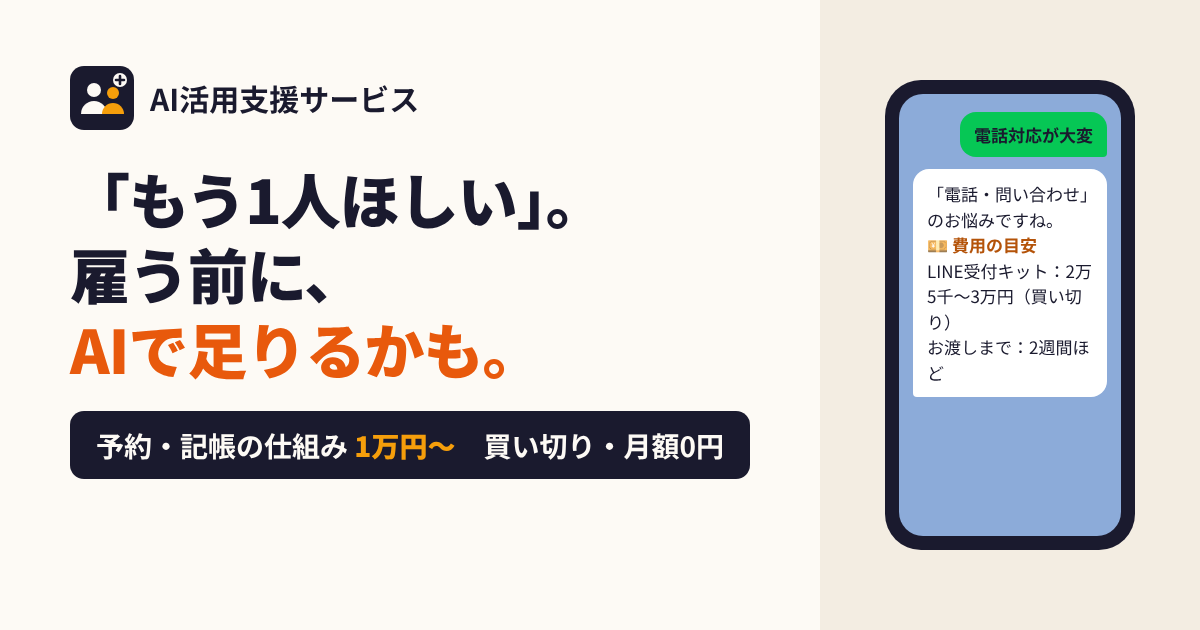
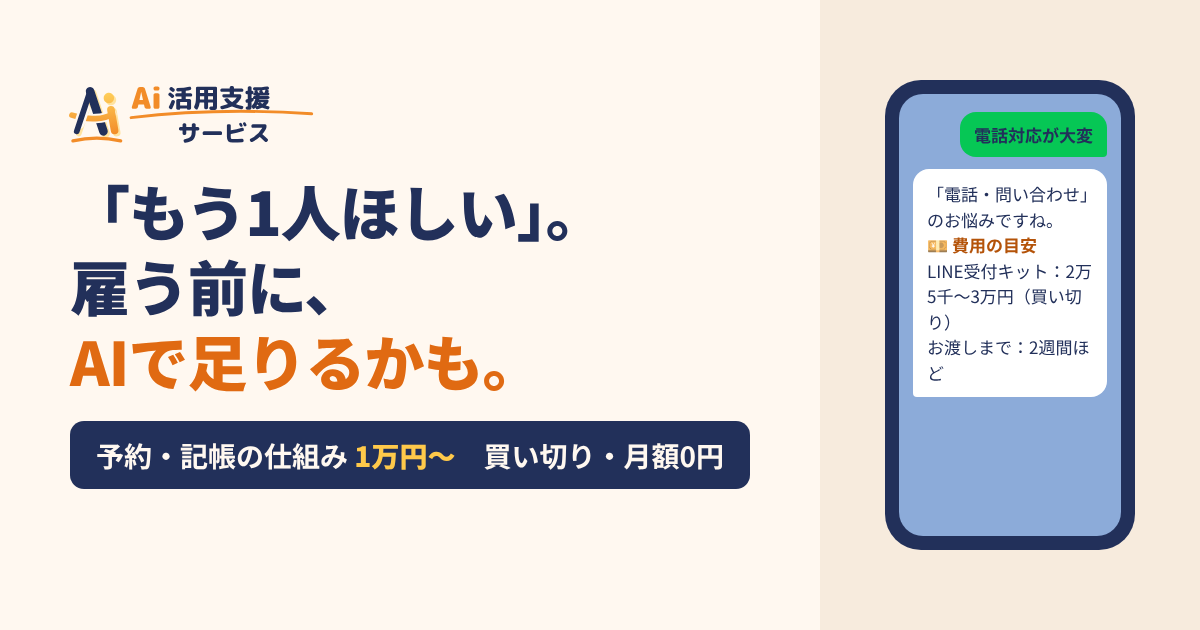
ロゴ刷新（Aをiが抱きしめるマーク）と配色をネイビー×オレンジに変更
Claude-Session: https://claude.ai/code/session_01ESE543p44aGTJ3GTZoKCfU

diff --git a/index.html b/index.html
@@ -33,7 +33,7 @@
 <link rel="icon" type="image/png" sizes="48x48" href="favicon-48.png">
 <link rel="icon" type="image/png" sizes="96x96" href="favicon-96.png">
 <link rel="apple-touch-icon" href="apple-touch-icon.png">
-<meta name="theme-color" content="#1A1A2E">
+<meta name="theme-color" content="#22305A">
 
 <!-- OGP -->
 <meta property="og:type" content="website">
@@ -91,14 +91,14 @@
 @font-face{font-family:'M PLUS Rounded 1c';font-style:normal;font-weight:600 900;font-display:swap;src:url(/AI-Utilization-Support-Service/fonts/mpr-800.woff2) format('woff2');}
 
 :root{
-  --cream:#FDFAF5; --white:#FFFFFF;
-  --ink:#1A1A2E; --ink2:#2D3561; --muted:#565E6B;
-  --border:#E5E0D8; --amber:#F59E0B; --amber-l:#FEF3C7; --amber-d:#B45309;
+  --cream:#FFF8F0; --white:#FFFFFF;
+  --ink:#22305A; --ink2:#33457A; --muted:#565E6B;
+  --border:#E5E0D8; --amber:#F28C28; --amber-l:#FFECD6; --amber-d:#B45309;
   --green:#10B981; --green-l:#D1FAE5;
   --line:#06C755; --line-d:#05A847;
   --accent:#F97316; --accent-l:#FFEDD5;
-  --shadow:0 4px 24px rgba(26,26,46,0.08);
-  --shadow-lg:0 8px 40px rgba(26,26,46,0.13);
+  --shadow:0 4px 24px rgba(34,48,90,0.08);
+  --shadow-lg:0 8px 40px rgba(34,48,90,0.13);
 }
 *{margin:0;padding:0;box-sizing:border-box;}
 html{scroll-behavior:smooth;}
@@ -271,7 +271,7 @@ a{color:inherit;}
 .cta-sec p{font-size:15px;color:rgba(255,255,255,.75);margin-bottom:30px;}
 .cta-sec .cta-main{align-items:center;}
 .cta-sec .cta-note{color:rgba(255,255,255,.7);}
-.cta-sec .cta-note a{color:var(--amber);}
+.cta-sec .cta-note a{color:#FFD15C;}
 
 /* フッター */
 .foot-line{background:var(--white);border-top:1px solid var(--border);padding:22px 40px;display:flex;align-items:center;justify-content:center;gap:20px;flex-wrap:wrap;text-align:center;}
@@ -328,7 +328,7 @@ footer{background:var(--white);border-top:1px solid var(--border);padding:22px 4
   .cta-sec h2{font-size:24px;}
   .foot-line,footer{padding:18px 18px;}
   footer{flex-direction:column;align-items:center;text-align:center;padding-bottom:96px;}
-  .sticky-line{display:flex;position:fixed;left:0;right:0;bottom:0;z-index:200;padding:10px 14px calc(10px + env(safe-area-inset-bottom,0px));background:rgba(255,255,255,.96);border-top:1px solid var(--border);box-shadow:0 -4px 16px rgba(26,26,46,.08);}
+  .sticky-line{display:flex;position:fixed;left:0;right:0;bottom:0;z-index:200;padding:10px 14px calc(10px + env(safe-area-inset-bottom,0px));background:rgba(255,255,255,.96);border-top:1px solid var(--border);box-shadow:0 -4px 16px rgba(34,48,90,.08);}
   .sticky-line .btn-line{width:100%;padding:14px;font-size:15.5px;}
 }
 </style>
@@ -337,7 +337,7 @@ footer{background:var(--white);border-top:1px solid var(--border);padding:22px 4
 <script>document.documentElement.classList.add('js');</script>
 
 <header class="hdr">
-  <a class="hdr-brand" href="./"><svg class="logo-svg" viewBox="0 0 64 64" aria-hidden="true"><rect width="64" height="64" rx="14" fill="#1A1A2E"/><circle cx="24" cy="24" r="7" fill="#FDFAF5"/><path d="M11 48a13 13 0 0 1 26 0z" fill="#FDFAF5"/><circle cx="43" cy="27" r="6" fill="#F59E0B"/><path d="M32 48a11 11 0 0 1 22 0z" fill="#F59E0B"/><circle cx="50" cy="14" r="7" fill="#FDFAF5"/><path d="M50 10v8M46 14h8" stroke="#1A1A2E" stroke-width="2.6" stroke-linecap="round"/></svg><div class="hdr-title">AI活用支援サービス</div></a>
+  <a class="hdr-brand" href="./"><img class="logo-img" src="logo.svg" width="160" height="52" alt="AI活用支援サービス" style="height:44px;width:auto;display:block"></a>
   <nav class="hdr-nav">
     <a class="nav-txt" href="price/">料金</a>
     <a class="nav-txt" href="#works">制作例</a>
@@ -461,7 +461,7 @@ footer{background:var(--white);border-top:1px solid var(--border);padding:22px 4
             <div class="mk-tabs"><div class="mk-tab" style="background:#EC4899;color:#fff;">予約</div><div class="mk-tab" style="background:#fff;color:#9CA3AF;">顧客</div><div class="mk-tab" style="background:#fff;color:#9CA3AF;">売上</div></div>
             <div class="mk-item"><div class="mk-row" style="margin-bottom:1px;"><span style="font-weight:700;">10:00 田中様</span><span class="mk-bdg" style="margin-left:auto;background:#FCE7F3;color:#BE185D;">90分</span></div><div style="color:#9CA3AF;">ジェル / オフ込・¥6,500</div></div>
             <div class="mk-item"><div class="mk-row" style="margin-bottom:1px;"><span style="font-weight:700;">13:30 佐藤様</span><span class="mk-bdg" style="margin-left:auto;background:#FCE7F3;color:#BE185D;">120分</span></div><div style="color:#9CA3AF;">フット / アート・¥8,000</div></div>
-            <div class="mk-item" style="margin-bottom:6px;"><div class="mk-row" style="margin-bottom:1px;"><span style="font-weight:700;">16:00 鈴木様</span><span class="mk-bdg" style="margin-left:auto;background:#FEF3C7;color:#92400E;">新規</span></div><div style="color:#9CA3AF;">ハンド / ワンカラー・¥4,000</div></div>
+            <div class="mk-item" style="margin-bottom:6px;"><div class="mk-row" style="margin-bottom:1px;"><span style="font-weight:700;">16:00 鈴木様</span><span class="mk-bdg" style="margin-left:auto;background:#FFECD6;color:#92400E;">新規</span></div><div style="color:#9CA3AF;">ハンド / ワンカラー・¥4,000</div></div>
             <div class="mk-row" style="margin-bottom:0;gap:5px;"><div class="mk-stat"><div style="color:#9CA3AF;">本日売上</div><div style="font-weight:800;color:#EC4899;font-size:9px;">¥18,500</div></div><div class="mk-stat"><div style="color:#9CA3AF;">来店</div><div style="font-weight:800;color:#EC4899;font-size:9px;">3件</div></div></div>
           </div>
         </div>
@@ -492,11 +492,11 @@ footer{background:var(--white);border-top:1px solid var(--border);padding:22px 4
         <div class="mock">
           <div class="mock-bar"><span class="mock-dot" style="background:#FF5F57"></span><span class="mock-dot" style="background:#FEBC2E"></span><span class="mock-dot" style="background:#28C840"></span></div>
           <div class="mock-screen" style="background:#FFFBEB;">
-            <div class="mk-row"><span class="mk-chip" style="background:#F59E0B;color:#fff;">🚚 配車管理</span><span style="margin-left:auto;color:#6B7280;font-weight:700;">6/15(月)</span></div>
+            <div class="mk-row"><span class="mk-chip" style="background:#F28C28;color:#fff;">🚚 配車管理</span><span style="margin-left:auto;color:#6B7280;font-weight:700;">6/15(月)</span></div>
             <div class="mk-item" style="padding:4px 6px;"><div class="mk-row" style="margin-bottom:1px;"><span style="width:5px;height:5px;border-radius:50%;background:#22C55E;flex-shrink:0;"></span><span style="font-weight:700;">1号車 山田</span><span class="mk-bdg" style="margin-left:auto;background:#DCFCE7;color:#166534;">運行中</span></div><div style="color:#9CA3AF;padding-left:10px;">Aエリア→Bエリア / 9:00発・3件</div></div>
             <div class="mk-item" style="padding:4px 6px;"><div class="mk-row" style="margin-bottom:1px;"><span style="width:5px;height:5px;border-radius:50%;background:#22C55E;flex-shrink:0;"></span><span style="font-weight:700;">2号車 鈴木</span><span class="mk-bdg" style="margin-left:auto;background:#DCFCE7;color:#166534;">運行中</span></div><div style="color:#9CA3AF;padding-left:10px;">Cエリア→Dエリア / 8:30発・2件</div></div>
-            <div class="mk-item" style="padding:4px 6px;"><div class="mk-row" style="margin-bottom:1px;"><span style="width:5px;height:5px;border-radius:50%;background:#FBBF24;flex-shrink:0;"></span><span style="font-weight:700;">3号車 佐々木</span><span class="mk-bdg" style="margin-left:auto;background:#FEF3C7;color:#92400E;">待機</span></div><div style="color:#9CA3AF;padding-left:10px;">次便 13:00 / Eエリア</div></div>
-            <div class="mk-row" style="margin-bottom:0;gap:5px;"><div class="mk-stat"><div style="color:#9CA3AF;">稼働</div><div style="font-weight:800;color:#F59E0B;font-size:9px;">2/3台</div></div><div class="mk-stat"><div style="color:#9CA3AF;">本日配送</div><div style="font-weight:800;color:#F59E0B;font-size:9px;">7件</div></div></div>
+            <div class="mk-item" style="padding:4px 6px;"><div class="mk-row" style="margin-bottom:1px;"><span style="width:5px;height:5px;border-radius:50%;background:#FBBF24;flex-shrink:0;"></span><span style="font-weight:700;">3号車 佐々木</span><span class="mk-bdg" style="margin-left:auto;background:#FFECD6;color:#92400E;">待機</span></div><div style="color:#9CA3AF;padding-left:10px;">次便 13:00 / Eエリア</div></div>
+            <div class="mk-row" style="margin-bottom:0;gap:5px;"><div class="mk-stat"><div style="color:#9CA3AF;">稼働</div><div style="font-weight:800;color:#F28C28;font-size:9px;">2/3台</div></div><div class="mk-stat"><div style="color:#9CA3AF;">本日配送</div><div style="font-weight:800;color:#F28C28;font-size:9px;">7件</div></div></div>
           </div>
         </div>
         <div class="work-body">
@@ -511,7 +511,7 @@ footer{background:var(--white);border-top:1px solid var(--border);padding:22px 4
           <div class="mock-screen" style="background:#F0FDF4;">
             <div class="mk-row"><span class="mk-chip" style="background:#22C55E;color:#fff;">👥 案件マッチング</span><span style="margin-left:auto;color:#6B7280;font-weight:700;">今週</span></div>
             <div class="mk-item" style="padding:5px 7px;"><div class="mk-row" style="margin-bottom:2px;"><span style="font-weight:700;">倉庫軽作業</span><span class="mk-bdg" style="margin-left:auto;background:#DCFCE7;color:#166534;">3/3名 充足</span></div><div style="color:#9CA3AF;">6/15 / 3名 確定</div></div>
-            <div class="mk-item" style="padding:5px 7px;"><div class="mk-row" style="margin-bottom:2px;"><span style="font-weight:700;">イベント設営</span><span class="mk-bdg" style="margin-left:auto;background:#FEF3C7;color:#92400E;">1/2名 募集</span></div><div style="color:#9CA3AF;">6/18 / あと1名</div></div>
+            <div class="mk-item" style="padding:5px 7px;"><div class="mk-row" style="margin-bottom:2px;"><span style="font-weight:700;">イベント設営</span><span class="mk-bdg" style="margin-left:auto;background:#FFECD6;color:#92400E;">1/2名 募集</span></div><div style="color:#9CA3AF;">6/18 / あと1名</div></div>
             <div class="mk-item" style="padding:5px 7px;margin-bottom:5px;"><div class="mk-row" style="margin-bottom:2px;"><span style="font-weight:700;">仕分け作業</span><span class="mk-bdg" style="margin-left:auto;background:#DBEAFE;color:#1E40AF;">調整中</span></div><div style="color:#9CA3AF;">6/20 / 5名手配中</div></div>
             <div class="mk-row" style="margin-bottom:0;gap:5px;"><div class="mk-stat"><div style="color:#9CA3AF;">稼働スタッフ</div><div style="font-weight:800;color:#22C55E;font-size:9px;">24名</div></div><div class="mk-stat"><div style="color:#9CA3AF;">今週案件</div><div style="font-weight:800;color:#22C55E;font-size:9px;">8件</div></div></div>
           </div>
@@ -595,7 +595,7 @@ footer{background:var(--white);border-top:1px solid var(--border);padding:22px 4
   <a href="https://line.me/R/ti/p/@974udygc" class="btn-line sm" onclick="trackLineClick();">友だち追加</a>
 </div>
 <footer>
-  <div class="hdr-brand"><svg class="logo-svg" viewBox="0 0 64 64" aria-hidden="true"><rect width="64" height="64" rx="14" fill="#1A1A2E"/><circle cx="24" cy="24" r="7" fill="#FDFAF5"/><path d="M11 48a13 13 0 0 1 26 0z" fill="#FDFAF5"/><circle cx="43" cy="27" r="6" fill="#F59E0B"/><path d="M32 48a11 11 0 0 1 22 0z" fill="#F59E0B"/><circle cx="50" cy="14" r="7" fill="#FDFAF5"/><path d="M50 10v8M46 14h8" stroke="#1A1A2E" stroke-width="2.6" stroke-linecap="round"/></svg><div class="hdr-title">AI活用支援サービス</div></div>
+  <div class="hdr-brand"><img class="logo-img" src="logo.svg" width="160" height="52" alt="AI活用支援サービス" style="height:44px;width:auto;display:block"></div>
   <div class="foot-links"><a href="price/">料金</a><a href="about/">運営者情報</a><a href="kit/line-yoyaku/">予約キット</a><a href="kit/line-uketsuke/">LINE受付キット</a><a href="kit/daicho/">台帳キット</a><a href="kit/kicho/">記帳キット</a><a href="case/yugyosen/">遊漁船の事例</a><a href="case/nail/">ネイルの事例</a><a href="himeji/">姫路・播磨</a><a href="shindan.html">60秒診断</a><a href="tokushoho.html">特定商取引法に基づく表記</a></div>
   <div class="foot-note">© 2026 AI活用支援サービス（兵庫県）</div>
 </footer>

diff --git a/shindan.html b/shindan.html
@@ -43,15 +43,15 @@
 @font-face{font-family:'M PLUS Rounded 1c';font-style:normal;font-weight:600 900;font-display:swap;src:url(/AI-Utilization-Support-Service/fonts/mpr-800.woff2) format('woff2');}
 
 :root{
-  --cream:#FDFAF5; --white:#FFFFFF;
-  --ink:#1A1A2E; --ink2:#2D3561; --muted:#6B7280;
-  --border:#E5E0D8; --amber:#F59E0B; --amber-l:#FEF3C7;
+  --cream:#FFF8F0; --white:#FFFFFF;
+  --ink:#22305A; --ink2:#33457A; --muted:#6B7280;
+  --border:#E5E0D8; --amber:#F28C28; --amber-l:#FFECD6;
   --coral:#EF4444; --coral-l:#FEE2E2;
   --green:#10B981; --green-l:#D1FAE5;
   --blue:#3B82F6; --blue-l:#DBEAFE;
   --accent:#F97316; --accent-l:#FFEDD5;
-  --shadow:0 4px 24px rgba(26,26,46,0.08);
-  --shadow-lg:0 8px 40px rgba(26,26,46,0.13);
+  --shadow:0 4px 24px rgba(34,48,90,0.08);
+  --shadow-lg:0 8px 40px rgba(34,48,90,0.13);
 }
 *{margin:0;padding:0;box-sizing:border-box;}
 body{font-family:'M PLUS Rounded 1c',sans-serif;background:var(--cream);color:var(--ink);min-height:100vh;display:flex;flex-direction:column;}
@@ -147,7 +147,7 @@ body{font-family:'M PLUS Rounded 1c',sans-serif;background:var(--cream);color:va
 /* CTA */
 .res-cta{display:flex;flex-direction:column;gap:10px;}
 .cta-line-note{font-size:12px;color:var(--ink2);font-weight:700;text-align:center;line-height:1.6;margin-bottom:2px;}
-.cta-line{width:100%;padding:16px;background:#06C755;color:#1A1A2E;border:none;border-radius:10px;font-family:'M PLUS Rounded 1c',sans-serif;font-size:15px;font-weight:700;cursor:pointer;transition:all 0.2s;text-decoration:none;display:flex;align-items:center;justify-content:center;gap:7px;}
+.cta-line{width:100%;padding:16px;background:#06C755;color:#22305A;border:none;border-radius:10px;font-family:'M PLUS Rounded 1c',sans-serif;font-size:15px;font-weight:700;cursor:pointer;transition:all 0.2s;text-decoration:none;display:flex;align-items:center;justify-content:center;gap:7px;}
 .cta-line:hover{background:#05A847;transform:translateY(-1px);box-shadow:0 6px 20px rgba(6,199,85,0.3);}
 .cta-main{width:100%;padding:15px;background:var(--ink2);color:#fff;border:none;border-radius:10px;font-family:'M PLUS Rounded 1c',sans-serif;font-size:14px;font-weight:700;cursor:pointer;transition:all 0.2s;text-decoration:none;display:block;text-align:center;}
 .cta-main:hover{background:var(--accent);transform:translateY(-1px);box-shadow:0 6px 20px rgba(249,115,22,0.3);}
@@ -179,7 +179,7 @@ body{font-family:'M PLUS Rounded 1c',sans-serif;background:var(--cream);color:va
 <body>
 
 <nav class="nav">
-  <div class="nav-brand"><svg class="logo-svg" viewBox="0 0 64 64" aria-hidden="true"><rect width="64" height="64" rx="14" fill="#1A1A2E"/><circle cx="24" cy="24" r="7" fill="#FDFAF5"/><path d="M11 48a13 13 0 0 1 26 0z" fill="#FDFAF5"/><circle cx="43" cy="27" r="6" fill="#F59E0B"/><path d="M32 48a11 11 0 0 1 22 0z" fill="#F59E0B"/><circle cx="50" cy="14" r="7" fill="#FDFAF5"/><path d="M50 10v8M46 14h8" stroke="#1A1A2E" stroke-width="2.6" stroke-linecap="round"/></svg><div class="nav-ttl">AI活用支援サービス</div></div>
+  <div class="nav-brand"><img class="logo-img" src="logo.svg" width="160" height="52" alt="AI活用支援サービス" style="height:44px;width:auto;display:block"></div>
   <a href="./" class="nav-back">← サービス紹介に戻る</a>
 </nav>
 

diff --git a/404.html b/404.html
@@ -35,7 +35,7 @@
 <style>
 @font-face{font-family:'M PLUS Rounded 1c';font-style:normal;font-weight:400 500;font-display:swap;src:url(/AI-Utilization-Support-Service/fonts/mpr-400.woff2) format('woff2');}
 @font-face{font-family:'M PLUS Rounded 1c';font-style:normal;font-weight:600 900;font-display:swap;src:url(/AI-Utilization-Support-Service/fonts/mpr-800.woff2) format('woff2');}
-:root{--cream:#FDFAF5;--white:#FFFFFF;--ink:#1A1A2E;--ink2:#2D3561;--muted:#565E6B;--border:#E5E0D8;--amber:#F59E0B;--amber-l:#FEF3C7;--amber-d:#B45309;--green:#10B981;--line:#06C755;--line-d:#05A847;--accent:#F97316;--accent-l:#FFEDD5;--shadow:0 4px 24px rgba(26,26,46,0.08);}
+:root{--cream:#FFF8F0;--white:#FFFFFF;--ink:#22305A;--ink2:#33457A;--muted:#565E6B;--border:#E5E0D8;--amber:#F28C28;--amber-l:#FFECD6;--amber-d:#B45309;--green:#10B981;--line:#06C755;--line-d:#05A847;--accent:#F97316;--accent-l:#FFEDD5;--shadow:0 4px 24px rgba(34,48,90,0.08);}
 *{margin:0;padding:0;box-sizing:border-box;}
 body{font-size:16px;font-family:'M PLUS Rounded 1c','Hiragino Maru Gothic ProN',sans-serif;background:var(--cream);color:var(--ink);line-height:1.85;}
 a{color:var(--ink2);}
@@ -108,7 +108,7 @@ footer a{color:var(--muted);margin:0 8px;}
 </head>
 <body>
 <header class="hdr">
-  <a class="hdr-brand" href="/AI-Utilization-Support-Service/"><svg class="logo-svg" viewBox="0 0 64 64" aria-hidden="true"><rect width="64" height="64" rx="14" fill="#1A1A2E"/><circle cx="24" cy="24" r="7" fill="#FDFAF5"/><path d="M11 48a13 13 0 0 1 26 0z" fill="#FDFAF5"/><circle cx="43" cy="27" r="6" fill="#F59E0B"/><path d="M32 48a11 11 0 0 1 22 0z" fill="#F59E0B"/><circle cx="50" cy="14" r="7" fill="#FDFAF5"/><path d="M50 10v8M46 14h8" stroke="#1A1A2E" stroke-width="2.6" stroke-linecap="round"/></svg>AI活用支援サービス</a>
+  <a class="hdr-brand" href="/AI-Utilization-Support-Service/"><img class="logo-img" src="/AI-Utilization-Support-Service/logo.svg" width="160" height="52" alt="AI活用支援サービス" style="height:44px;width:auto;display:block"></a>
   <a href="https://line.me/R/ti/p/@974udygc" class="btn-line sm" onclick="trackLineClick();">LINEで相談</a>
 </header>
 <nav class="crumb" aria-label="パンくず"><a href="/AI-Utilization-Support-Service/">トップ</a> ＞ 404</nav>

diff --git a/kit/line-uketsuke/index.html b/kit/line-uketsuke/index.html
@@ -82,7 +82,7 @@
 <style>
 @font-face{font-family:'M PLUS Rounded 1c';font-style:normal;font-weight:400 500;font-display:swap;src:url(/AI-Utilization-Support-Service/fonts/mpr-400.woff2) format('woff2');}
 @font-face{font-family:'M PLUS Rounded 1c';font-style:normal;font-weight:600 900;font-display:swap;src:url(/AI-Utilization-Support-Service/fonts/mpr-800.woff2) format('woff2');}
-:root{--cream:#FDFAF5;--white:#FFFFFF;--ink:#1A1A2E;--ink2:#2D3561;--muted:#565E6B;--border:#E5E0D8;--amber:#F59E0B;--amber-l:#FEF3C7;--amber-d:#B45309;--green:#10B981;--line:#06C755;--line-d:#05A847;--accent:#F97316;--accent-l:#FFEDD5;--shadow:0 4px 24px rgba(26,26,46,0.08);}
+:root{--cream:#FFF8F0;--white:#FFFFFF;--ink:#22305A;--ink2:#33457A;--muted:#565E6B;--border:#E5E0D8;--amber:#F28C28;--amber-l:#FFECD6;--amber-d:#B45309;--green:#10B981;--line:#06C755;--line-d:#05A847;--accent:#F97316;--accent-l:#FFEDD5;--shadow:0 4px 24px rgba(34,48,90,0.08);}
 *{margin:0;padding:0;box-sizing:border-box;}
 body{font-size:16px;font-family:'M PLUS Rounded 1c','Hiragino Maru Gothic ProN',sans-serif;background:var(--cream);color:var(--ink);line-height:1.85;}
 a{color:var(--ink2);}
@@ -155,7 +155,7 @@ footer a{color:var(--muted);margin:0 8px;}
 </head>
 <body>
 <header class="hdr">
-  <a class="hdr-brand" href="../../"><svg class="logo-svg" viewBox="0 0 64 64" aria-hidden="true"><rect width="64" height="64" rx="14" fill="#1A1A2E"/><circle cx="24" cy="24" r="7" fill="#FDFAF5"/><path d="M11 48a13 13 0 0 1 26 0z" fill="#FDFAF5"/><circle cx="43" cy="27" r="6" fill="#F59E0B"/><path d="M32 48a11 11 0 0 1 22 0z" fill="#F59E0B"/><circle cx="50" cy="14" r="7" fill="#FDFAF5"/><path d="M50 10v8M46 14h8" stroke="#1A1A2E" stroke-width="2.6" stroke-linecap="round"/></svg>AI活用支援サービス</a>
+  <a class="hdr-brand" href="../../"><img class="logo-img" src="../../logo.svg" width="160" height="52" alt="AI活用支援サービス" style="height:44px;width:auto;display:block"></a>
   <a href="https://line.me/R/ti/p/@974udygc" class="btn-line sm" onclick="trackLineClick();">LINEで相談</a>
 </header>
 <nav class="crumb" aria-label="パンくず"><a href="../../">トップ</a> ＞ LINE受付キット</nav>

diff --git a/case/nail/index.html b/case/nail/index.html
@@ -74,7 +74,7 @@
 <style>
 @font-face{font-family:'M PLUS Rounded 1c';font-style:normal;font-weight:400 500;font-display:swap;src:url(/AI-Utilization-Support-Service/fonts/mpr-400.woff2) format('woff2');}
 @font-face{font-family:'M PLUS Rounded 1c';font-style:normal;font-weight:600 900;font-display:swap;src:url(/AI-Utilization-Support-Service/fonts/mpr-800.woff2) format('woff2');}
-:root{--cream:#FDFAF5;--white:#FFFFFF;--ink:#1A1A2E;--ink2:#2D3561;--muted:#565E6B;--border:#E5E0D8;--amber:#F59E0B;--amber-l:#FEF3C7;--amber-d:#B45309;--green:#10B981;--line:#06C755;--line-d:#05A847;--accent:#F97316;--accent-l:#FFEDD5;--shadow:0 4px 24px rgba(26,26,46,0.08);}
+:root{--cream:#FFF8F0;--white:#FFFFFF;--ink:#22305A;--ink2:#33457A;--muted:#565E6B;--border:#E5E0D8;--amber:#F28C28;--amber-l:#FFECD6;--amber-d:#B45309;--green:#10B981;--line:#06C755;--line-d:#05A847;--accent:#F97316;--accent-l:#FFEDD5;--shadow:0 4px 24px rgba(34,48,90,0.08);}
 *{margin:0;padding:0;box-sizing:border-box;}
 body{font-size:16px;font-family:'M PLUS Rounded 1c','Hiragino Maru Gothic ProN',sans-serif;background:var(--cream);color:var(--ink);line-height:1.85;}
 a{color:var(--ink2);}
@@ -147,7 +147,7 @@ footer a{color:var(--muted);margin:0 8px;}
 </head>
 <body>
 <header class="hdr">
-  <a class="hdr-brand" href="../../"><svg class="logo-svg" viewBox="0 0 64 64" aria-hidden="true"><rect width="64" height="64" rx="14" fill="#1A1A2E"/><circle cx="24" cy="24" r="7" fill="#FDFAF5"/><path d="M11 48a13 13 0 0 1 26 0z" fill="#FDFAF5"/><circle cx="43" cy="27" r="6" fill="#F59E0B"/><path d="M32 48a11 11 0 0 1 22 0z" fill="#F59E0B"/><circle cx="50" cy="14" r="7" fill="#FDFAF5"/><path d="M50 10v8M46 14h8" stroke="#1A1A2E" stroke-width="2.6" stroke-linecap="round"/></svg>AI活用支援サービス</a>
+  <a class="hdr-brand" href="../../"><img class="logo-img" src="../../logo.svg" width="160" height="52" alt="AI活用支援サービス" style="height:44px;width:auto;display:block"></a>
   <a href="https://line.me/R/ti/p/@974udygc" class="btn-line sm" onclick="trackLineClick();">LINEで相談</a>
 </header>
 <nav class="crumb" aria-label="パンくず"><a href="../../">トップ</a> ＞ ネイルサロン</nav>

diff --git a/kit/daicho/index.html b/kit/daicho/index.html
@@ -82,7 +82,7 @@
 <style>
 @font-face{font-family:'M PLUS Rounded 1c';font-style:normal;font-weight:400 500;font-display:swap;src:url(/AI-Utilization-Support-Service/fonts/mpr-400.woff2) format('woff2');}
 @font-face{font-family:'M PLUS Rounded 1c';font-style:normal;font-weight:600 900;font-display:swap;src:url(/AI-Utilization-Support-Service/fonts/mpr-800.woff2) format('woff2');}
-:root{--cream:#FDFAF5;--white:#FFFFFF;--ink:#1A1A2E;--ink2:#2D3561;--muted:#565E6B;--border:#E5E0D8;--amber:#F59E0B;--amber-l:#FEF3C7;--amber-d:#B45309;--green:#10B981;--line:#06C755;--line-d:#05A847;--accent:#F97316;--accent-l:#FFEDD5;--shadow:0 4px 24px rgba(26,26,46,0.08);}
+:root{--cream:#FFF8F0;--white:#FFFFFF;--ink:#22305A;--ink2:#33457A;--muted:#565E6B;--border:#E5E0D8;--amber:#F28C28;--amber-l:#FFECD6;--amber-d:#B45309;--green:#10B981;--line:#06C755;--line-d:#05A847;--accent:#F97316;--accent-l:#FFEDD5;--shadow:0 4px 24px rgba(34,48,90,0.08);}
 *{margin:0;padding:0;box-sizing:border-box;}
 body{font-size:16px;font-family:'M PLUS Rounded 1c','Hiragino Maru Gothic ProN',sans-serif;background:var(--cream);color:var(--ink);line-height:1.85;}
 a{color:var(--ink2);}
@@ -155,7 +155,7 @@ footer a{color:var(--muted);margin:0 8px;}
 </head>
 <body>
 <header class="hdr">
-  <a class="hdr-brand" href="../../"><svg class="logo-svg" viewBox="0 0 64 64" aria-hidden="true"><rect width="64" height="64" rx="14" fill="#1A1A2E"/><circle cx="24" cy="24" r="7" fill="#FDFAF5"/><path d="M11 48a13 13 0 0 1 26 0z" fill="#FDFAF5"/><circle cx="43" cy="27" r="6" fill="#F59E0B"/><path d="M32 48a11 11 0 0 1 22 0z" fill="#F59E0B"/><circle cx="50" cy="14" r="7" fill="#FDFAF5"/><path d="M50 10v8M46 14h8" stroke="#1A1A2E" stroke-width="2.6" stroke-linecap="round"/></svg>AI活用支援サービス</a>
+  <a class="hdr-brand" href="../../"><img class="logo-img" src="../../logo.svg" width="160" height="52" alt="AI活用支援サービス" style="height:44px;width:auto;display:block"></a>
   <a href="https://line.me/R/ti/p/@974udygc" class="btn-line sm" onclick="trackLineClick();">LINEで相談</a>
 </header>
 <nav class="crumb" aria-label="パンくず"><a href="../../">トップ</a> ＞ 台帳キット</nav>

diff --git a/kit/kicho/index.html b/kit/kicho/index.html
@@ -82,7 +82,7 @@
 <style>
 @font-face{font-family:'M PLUS Rounded 1c';font-style:normal;font-weight:400 500;font-display:swap;src:url(/AI-Utilization-Support-Service/fonts/mpr-400.woff2) format('woff2');}
 @font-face{font-family:'M PLUS Rounded 1c';font-style:normal;font-weight:600 900;font-display:swap;src:url(/AI-Utilization-Support-Service/fonts/mpr-800.woff2) format('woff2');}
-:root{--cream:#FDFAF5;--white:#FFFFFF;--ink:#1A1A2E;--ink2:#2D3561;--muted:#565E6B;--border:#E5E0D8;--amber:#F59E0B;--amber-l:#FEF3C7;--amber-d:#B45309;--green:#10B981;--line:#06C755;--line-d:#05A847;--accent:#F97316;--accent-l:#FFEDD5;--shadow:0 4px 24px rgba(26,26,46,0.08);}
+:root{--cream:#FFF8F0;--white:#FFFFFF;--ink:#22305A;--ink2:#33457A;--muted:#565E6B;--border:#E5E0D8;--amber:#F28C28;--amber-l:#FFECD6;--amber-d:#B45309;--green:#10B981;--line:#06C755;--line-d:#05A847;--accent:#F97316;--accent-l:#FFEDD5;--shadow:0 4px 24px rgba(34,48,90,0.08);}
 *{margin:0;padding:0;box-sizing:border-box;}
 body{font-size:16px;font-family:'M PLUS Rounded 1c','Hiragino Maru Gothic ProN',sans-serif;background:var(--cream);color:var(--ink);line-height:1.85;}
 a{color:var(--ink2);}
@@ -155,7 +155,7 @@ footer a{color:var(--muted);margin:0 8px;}
 </head>
 <body>
 <header class="hdr">
-  <a class="hdr-brand" href="../../"><svg class="logo-svg" viewBox="0 0 64 64" aria-hidden="true"><rect width="64" height="64" rx="14" fill="#1A1A2E"/><circle cx="24" cy="24" r="7" fill="#FDFAF5"/><path d="M11 48a13 13 0 0 1 26 0z" fill="#FDFAF5"/><circle cx="43" cy="27" r="6" fill="#F59E0B"/><path d="M32 48a11 11 0 0 1 22 0z" fill="#F59E0B"/><circle cx="50" cy="14" r="7" fill="#FDFAF5"/><path d="M50 10v8M46 14h8" stroke="#1A1A2E" stroke-width="2.6" stroke-linecap="round"/></svg>AI活用支援サービス</a>
+  <a class="hdr-brand" href="../../"><img class="logo-img" src="../../logo.svg" width="160" height="52" alt="AI活用支援サービス" style="height:44px;width:auto;display:block"></a>
   <a href="https://line.me/R/ti/p/@974udygc" class="btn-line sm" onclick="trackLineClick();">LINEで相談</a>
 </header>
 <nav class="crumb" aria-label="パンくず"><a href="../../">トップ</a> ＞ 記帳キット</nav>

diff --git a/kit/line-yoyaku/index.html b/kit/line-yoyaku/index.html
@@ -82,7 +82,7 @@
 <style>
 @font-face{font-family:'M PLUS Rounded 1c';font-style:normal;font-weight:400 500;font-display:swap;src:url(/AI-Utilization-Support-Service/fonts/mpr-400.woff2) format('woff2');}
 @font-face{font-family:'M PLUS Rounded 1c';font-style:normal;font-weight:600 900;font-display:swap;src:url(/AI-Utilization-Support-Service/fonts/mpr-800.woff2) format('woff2');}
-:root{--cream:#FDFAF5;--white:#FFFFFF;--ink:#1A1A2E;--ink2:#2D3561;--muted:#565E6B;--border:#E5E0D8;--amber:#F59E0B;--amber-l:#FEF3C7;--amber-d:#B45309;--green:#10B981;--line:#06C755;--line-d:#05A847;--accent:#F97316;--accent-l:#FFEDD5;--shadow:0 4px 24px rgba(26,26,46,0.08);}
+:root{--cream:#FFF8F0;--white:#FFFFFF;--ink:#22305A;--ink2:#33457A;--muted:#565E6B;--border:#E5E0D8;--amber:#F28C28;--amber-l:#FFECD6;--amber-d:#B45309;--green:#10B981;--line:#06C755;--line-d:#05A847;--accent:#F97316;--accent-l:#FFEDD5;--shadow:0 4px 24px rgba(34,48,90,0.08);}
 *{margin:0;padding:0;box-sizing:border-box;}
 body{font-size:16px;font-family:'M PLUS Rounded 1c','Hiragino Maru Gothic ProN',sans-serif;background:var(--cream);color:var(--ink);line-height:1.85;}
 a{color:var(--ink2);}
@@ -155,7 +155,7 @@ footer a{color:var(--muted);margin:0 8px;}
 </head>
 <body>
 <header class="hdr">
-  <a class="hdr-brand" href="../../"><svg class="logo-svg" viewBox="0 0 64 64" aria-hidden="true"><rect width="64" height="64" rx="14" fill="#1A1A2E"/><circle cx="24" cy="24" r="7" fill="#FDFAF5"/><path d="M11 48a13 13 0 0 1 26 0z" fill="#FDFAF5"/><circle cx="43" cy="27" r="6" fill="#F59E0B"/><path d="M32 48a11 11 0 0 1 22 0z" fill="#F59E0B"/><circle cx="50" cy="14" r="7" fill="#FDFAF5"/><path d="M50 10v8M46 14h8" stroke="#1A1A2E" stroke-width="2.6" stroke-linecap="round"/></svg>AI活用支援サービス</a>
+  <a class="hdr-brand" href="../../"><img class="logo-img" src="../../logo.svg" width="160" height="52" alt="AI活用支援サービス" style="height:44px;width:auto;display:block"></a>
   <a href="https://line.me/R/ti/p/@974udygc" class="btn-line sm" onclick="trackLineClick();">LINEで相談</a>
 </header>
 <nav class="crumb" aria-label="パンくず"><a href="../../">トップ</a> ＞ 予約キット</nav>

diff --git a/case/yugyosen/index.html b/case/yugyosen/index.html
@@ -74,7 +74,7 @@
 <style>
 @font-face{font-family:'M PLUS Rounded 1c';font-style:normal;font-weight:400 500;font-display:swap;src:url(/AI-Utilization-Support-Service/fonts/mpr-400.woff2) format('woff2');}
 @font-face{font-family:'M PLUS Rounded 1c';font-style:normal;font-weight:600 900;font-display:swap;src:url(/AI-Utilization-Support-Service/fonts/mpr-800.woff2) format('woff2');}
-:root{--cream:#FDFAF5;--white:#FFFFFF;--ink:#1A1A2E;--ink2:#2D3561;--muted:#565E6B;--border:#E5E0D8;--amber:#F59E0B;--amber-l:#FEF3C7;--amber-d:#B45309;--green:#10B981;--line:#06C755;--line-d:#05A847;--accent:#F97316;--accent-l:#FFEDD5;--shadow:0 4px 24px rgba(26,26,46,0.08);}
+:root{--cream:#FFF8F0;--white:#FFFFFF;--ink:#22305A;--ink2:#33457A;--muted:#565E6B;--border:#E5E0D8;--amber:#F28C28;--amber-l:#FFECD6;--amber-d:#B45309;--green:#10B981;--line:#06C755;--line-d:#05A847;--accent:#F97316;--accent-l:#FFEDD5;--shadow:0 4px 24px rgba(34,48,90,0.08);}
 *{margin:0;padding:0;box-sizing:border-box;}
 body{font-size:16px;font-family:'M PLUS Rounded 1c','Hiragino Maru Gothic ProN',sans-serif;background:var(--cream);color:var(--ink);line-height:1.85;}
 a{color:var(--ink2);}
@@ -147,7 +147,7 @@ footer a{color:var(--muted);margin:0 8px;}
 </head>
 <body>
 <header class="hdr">
-  <a class="hdr-brand" href="../../"><svg class="logo-svg" viewBox="0 0 64 64" aria-hidden="true"><rect width="64" height="64" rx="14" fill="#1A1A2E"/><circle cx="24" cy="24" r="7" fill="#FDFAF5"/><path d="M11 48a13 13 0 0 1 26 0z" fill="#FDFAF5"/><circle cx="43" cy="27" r="6" fill="#F59E0B"/><path d="M32 48a11 11 0 0 1 22 0z" fill="#F59E0B"/><circle cx="50" cy="14" r="7" fill="#FDFAF5"/><path d="M50 10v8M46 14h8" stroke="#1A1A2E" stroke-width="2.6" stroke-linecap="round"/></svg>AI活用支援サービス</a>
+  <a class="hdr-brand" href="../../"><img class="logo-img" src="../../logo.svg" width="160" height="52" alt="AI活用支援サービス" style="height:44px;width:auto;display:block"></a>
   <a href="https://line.me/R/ti/p/@974udygc" class="btn-line sm" onclick="trackLineClick();">LINEで相談</a>
 </header>
 <nav class="crumb" aria-label="パンくず"><a href="../../">トップ</a> ＞ 遊漁船</nav>

diff --git a/about/index.html b/about/index.html
@@ -74,7 +74,7 @@
 <style>
 @font-face{font-family:'M PLUS Rounded 1c';font-style:normal;font-weight:400 500;font-display:swap;src:url(/AI-Utilization-Support-Service/fonts/mpr-400.woff2) format('woff2');}
 @font-face{font-family:'M PLUS Rounded 1c';font-style:normal;font-weight:600 900;font-display:swap;src:url(/AI-Utilization-Support-Service/fonts/mpr-800.woff2) format('woff2');}
-:root{--cream:#FDFAF5;--white:#FFFFFF;--ink:#1A1A2E;--ink2:#2D3561;--muted:#565E6B;--border:#E5E0D8;--amber:#F59E0B;--amber-l:#FEF3C7;--amber-d:#B45309;--green:#10B981;--line:#06C755;--line-d:#05A847;--accent:#F97316;--accent-l:#FFEDD5;--shadow:0 4px 24px rgba(26,26,46,0.08);}
+:root{--cream:#FFF8F0;--white:#FFFFFF;--ink:#22305A;--ink2:#33457A;--muted:#565E6B;--border:#E5E0D8;--amber:#F28C28;--amber-l:#FFECD6;--amber-d:#B45309;--green:#10B981;--line:#06C755;--line-d:#05A847;--accent:#F97316;--accent-l:#FFEDD5;--shadow:0 4px 24px rgba(34,48,90,0.08);}
 *{margin:0;padding:0;box-sizing:border-box;}
 body{font-size:16px;font-family:'M PLUS Rounded 1c','Hiragino Maru Gothic ProN',sans-serif;background:var(--cream);color:var(--ink);line-height:1.85;}
 a{color:var(--ink2);}
@@ -147,7 +147,7 @@ footer a{color:var(--muted);margin:0 8px;}
 </head>
 <body>
 <header class="hdr">
-  <a class="hdr-brand" href="../"><svg class="logo-svg" viewBox="0 0 64 64" aria-hidden="true"><rect width="64" height="64" rx="14" fill="#1A1A2E"/><circle cx="24" cy="24" r="7" fill="#FDFAF5"/><path d="M11 48a13 13 0 0 1 26 0z" fill="#FDFAF5"/><circle cx="43" cy="27" r="6" fill="#F59E0B"/><path d="M32 48a11 11 0 0 1 22 0z" fill="#F59E0B"/><circle cx="50" cy="14" r="7" fill="#FDFAF5"/><path d="M50 10v8M46 14h8" stroke="#1A1A2E" stroke-width="2.6" stroke-linecap="round"/></svg>AI活用支援サービス</a>
+  <a class="hdr-brand" href="../"><img class="logo-img" src="../logo.svg" width="160" height="52" alt="AI活用支援サービス" style="height:44px;width:auto;display:block"></a>
   <a href="https://line.me/R/ti/p/@974udygc" class="btn-line sm" onclick="trackLineClick();">LINEで相談</a>
 </header>
 <nav class="crumb" aria-label="パンくず"><a href="../">トップ</a> ＞ 運営者情報</nav>

diff --git a/himeji/index.html b/himeji/index.html
@@ -82,7 +82,7 @@
 <style>
 @font-face{font-family:'M PLUS Rounded 1c';font-style:normal;font-weight:400 500;font-display:swap;src:url(/AI-Utilization-Support-Service/fonts/mpr-400.woff2) format('woff2');}
 @font-face{font-family:'M PLUS Rounded 1c';font-style:normal;font-weight:600 900;font-display:swap;src:url(/AI-Utilization-Support-Service/fonts/mpr-800.woff2) format('woff2');}
-:root{--cream:#FDFAF5;--white:#FFFFFF;--ink:#1A1A2E;--ink2:#2D3561;--muted:#565E6B;--border:#E5E0D8;--amber:#F59E0B;--amber-l:#FEF3C7;--amber-d:#B45309;--green:#10B981;--line:#06C755;--line-d:#05A847;--accent:#F97316;--accent-l:#FFEDD5;--shadow:0 4px 24px rgba(26,26,46,0.08);}
+:root{--cream:#FFF8F0;--white:#FFFFFF;--ink:#22305A;--ink2:#33457A;--muted:#565E6B;--border:#E5E0D8;--amber:#F28C28;--amber-l:#FFECD6;--amber-d:#B45309;--green:#10B981;--line:#06C755;--line-d:#05A847;--accent:#F97316;--accent-l:#FFEDD5;--shadow:0 4px 24px rgba(34,48,90,0.08);}
 *{margin:0;padding:0;box-sizing:border-box;}
 body{font-size:16px;font-family:'M PLUS Rounded 1c','Hiragino Maru Gothic ProN',sans-serif;background:var(--cream);color:var(--ink);line-height:1.85;}
 a{color:var(--ink2);}
@@ -155,7 +155,7 @@ footer a{color:var(--muted);margin:0 8px;}
 </head>
 <body>
 <header class="hdr">
-  <a class="hdr-brand" href="../"><svg class="logo-svg" viewBox="0 0 64 64" aria-hidden="true"><rect width="64" height="64" rx="14" fill="#1A1A2E"/><circle cx="24" cy="24" r="7" fill="#FDFAF5"/><path d="M11 48a13 13 0 0 1 26 0z" fill="#FDFAF5"/><circle cx="43" cy="27" r="6" fill="#F59E0B"/><path d="M32 48a11 11 0 0 1 22 0z" fill="#F59E0B"/><circle cx="50" cy="14" r="7" fill="#FDFAF5"/><path d="M50 10v8M46 14h8" stroke="#1A1A2E" stroke-width="2.6" stroke-linecap="round"/></svg>AI活用支援サービス</a>
+  <a class="hdr-brand" href="../"><img class="logo-img" src="../logo.svg" width="160" height="52" alt="AI活用支援サービス" style="height:44px;width:auto;display:block"></a>
   <a href="https://line.me/R/ti/p/@974udygc" class="btn-line sm" onclick="trackLineClick();">LINEで相談</a>
 </header>
 <nav class="crumb" aria-label="パンくず"><a href="../">トップ</a> ＞ 姫路・播磨</nav>

diff --git a/price/index.html b/price/index.html
@@ -82,7 +82,7 @@
 <style>
 @font-face{font-family:'M PLUS Rounded 1c';font-style:normal;font-weight:400 500;font-display:swap;src:url(/AI-Utilization-Support-Service/fonts/mpr-400.woff2) format('woff2');}
 @font-face{font-family:'M PLUS Rounded 1c';font-style:normal;font-weight:600 900;font-display:swap;src:url(/AI-Utilization-Support-Service/fonts/mpr-800.woff2) format('woff2');}
-:root{--cream:#FDFAF5;--white:#FFFFFF;--ink:#1A1A2E;--ink2:#2D3561;--muted:#565E6B;--border:#E5E0D8;--amber:#F59E0B;--amber-l:#FEF3C7;--amber-d:#B45309;--green:#10B981;--line:#06C755;--line-d:#05A847;--accent:#F97316;--accent-l:#FFEDD5;--shadow:0 4px 24px rgba(26,26,46,0.08);}
+:root{--cream:#FFF8F0;--white:#FFFFFF;--ink:#22305A;--ink2:#33457A;--muted:#565E6B;--border:#E5E0D8;--amber:#F28C28;--amber-l:#FFECD6;--amber-d:#B45309;--green:#10B981;--line:#06C755;--line-d:#05A847;--accent:#F97316;--accent-l:#FFEDD5;--shadow:0 4px 24px rgba(34,48,90,0.08);}
 *{margin:0;padding:0;box-sizing:border-box;}
 body{font-size:16px;font-family:'M PLUS Rounded 1c','Hiragino Maru Gothic ProN',sans-serif;background:var(--cream);color:var(--ink);line-height:1.85;}
 a{color:var(--ink2);}
@@ -155,7 +155,7 @@ footer a{color:var(--muted);margin:0 8px;}
 </head>
 <body>
 <header class="hdr">
-  <a class="hdr-brand" href="../"><svg class="logo-svg" viewBox="0 0 64 64" aria-hidden="true"><rect width="64" height="64" rx="14" fill="#1A1A2E"/><circle cx="24" cy="24" r="7" fill="#FDFAF5"/><path d="M11 48a13 13 0 0 1 26 0z" fill="#FDFAF5"/><circle cx="43" cy="27" r="6" fill="#F59E0B"/><path d="M32 48a11 11 0 0 1 22 0z" fill="#F59E0B"/><circle cx="50" cy="14" r="7" fill="#FDFAF5"/><path d="M50 10v8M46 14h8" stroke="#1A1A2E" stroke-width="2.6" stroke-linecap="round"/></svg>AI活用支援サービス</a>
+  <a class="hdr-brand" href="../"><img class="logo-img" src="../logo.svg" width="160" height="52" alt="AI活用支援サービス" style="height:44px;width:auto;display:block"></a>
   <a href="https://line.me/R/ti/p/@974udygc" class="btn-line sm" onclick="trackLineClick();">LINEで相談</a>
 </header>
 <nav class="crumb" aria-label="パンくず"><a href="../">トップ</a> ＞ 料金</nav>
